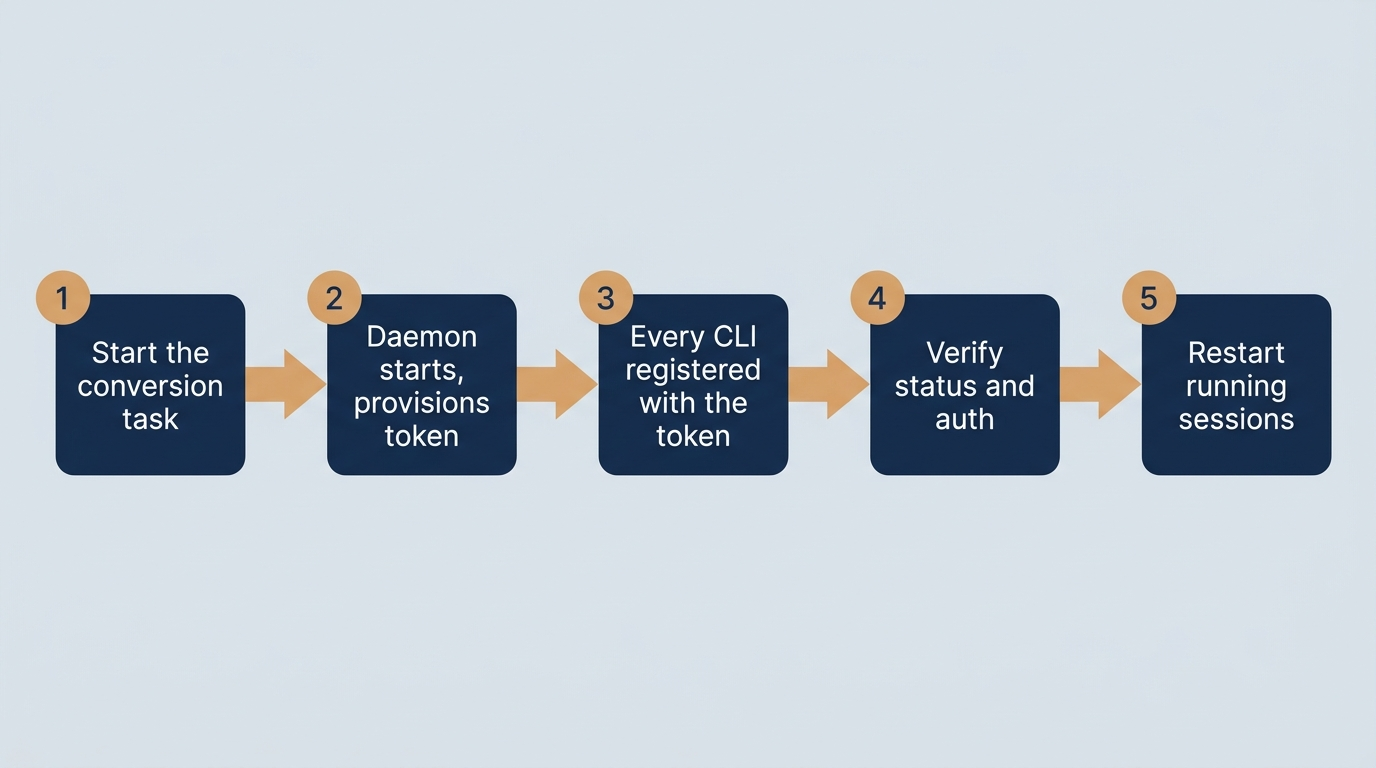
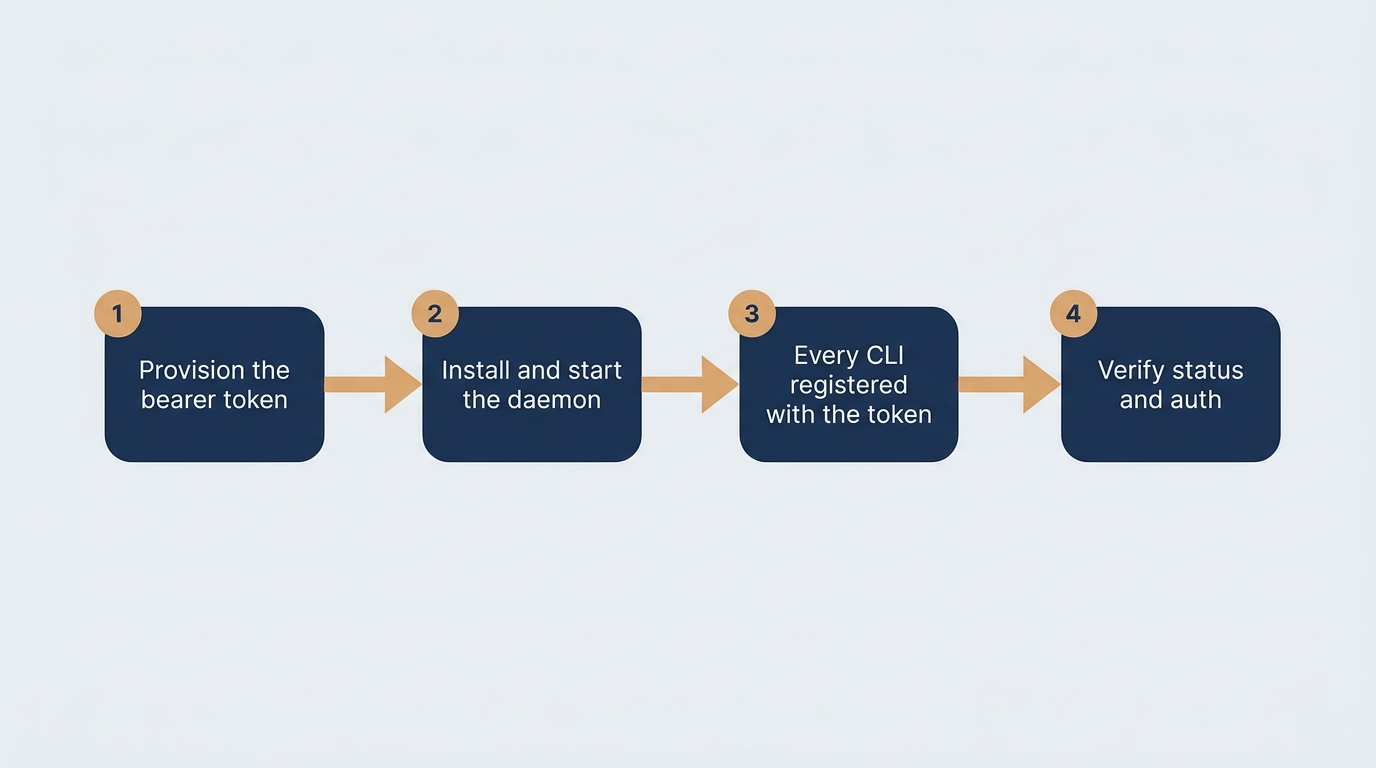
🐛 Fix step order and a false safety claim in the daemon runbook
Cold review of #877 (issuecomment-5268119392) found two blocking issues:

- convert-machine.png and the runbook's numbered list showed the daemon
  starting before its bearer token was provisioned. The code is the
  reverse: install_mcp_daemon (scripts/lib/common.sh:812-830) mints the
  token as its first statement, before the launcher and supervisor start
  the daemon. Regenerated the figure and reworded the list; dropped the
  now-redundant framing step, matching the figure to what the script
  actually does (4 steps, not 5).

- The rotation procedure claimed switch-mempalace-http.sh restarts the
  daemon, closing the exposure window at that step. It does not:
  install_daemon_supervisor skips an already-loaded launchd agent and
  no-ops enable --now on an already-active systemd unit, and the launcher
  exec's the wrapper once, never re-reading the token file. The false
  claim traces to scripts/uninstall-mcp-daemon.sh's own inline comment
  ("restarts, and re-registers") — an upstream defect, filed as #880.
  Added an explicit restart step (task mempalace:stop) between minting the
  new token and cleaning up stale backups; regenerated rotate-token.png
  with the added step (5 steps, original 4-step order unchanged).

Both sidecars now record the correction and cite the source lines the
review traced.

Changed region(s): [[0.0, 0.3438, 0.9688, 0.625]]

diff --git a/docs/runbooks/mempalace-mcp-server.md b/docs/runbooks/mempalace-mcp-server.md
@@ -36,22 +36,26 @@ Converting is all-or-nothing across the four CLIs, run once per machine:
 task mempalace:switch-http
 ```
 
-1. Installs the supervisor unit (launchd on macOS, systemd user unit on
-   Linux) and the daemon launcher.
-2. Provisions a bearer token if one does not already exist for this palace.
-3. Starts the daemon and waits for it to report healthy.
-4. Registers every supported CLI against it, over `--transport http`.
-5. Re-runs the status check so the conversion is verified, not merely
+1. Provisions a bearer token if one does not already exist for this palace
+   — this happens **first**: the daemon launcher refuses to start without
+   one, by design (`install_mcp_daemon`, `scripts/lib/common.sh:812-830`).
+2. Installs the daemon launcher and starts it under the supervisor (launchd
+   on macOS, systemd user unit on Linux), which waits for the daemon to
+   report healthy.
+3. Registers every supported CLI against it, over `--transport http`.
+4. Re-runs the status check so the conversion is verified, not merely
    assumed.
 
 **Already-running sessions keep their previous memory server until they
 restart** — restart every open CLI session to actually pick up the change.
+This is a separate, order-independent follow-up rather than a step in the
+sequence above, so it is not depicted in the diagram below.
 
 A single CLI can be converted on its own by re-running that CLI's own
 `setup-*-interactive.sh`; the machine-wide, all-four-CLIs-or-none obligation
 belongs only to `task mempalace:switch-http`.
 
-![Five ordered steps to convert a machine to the shared MemPalace MCP HTTP daemon: start the conversion task, the daemon starts and provisions a token, every CLI is registered with the token, the result is verified, then running sessions are restarted.](../assets/mempalace-mcp/convert-machine.png)
+![Four ordered steps to convert a machine to the shared MemPalace MCP HTTP daemon: provision the bearer token, install and start the daemon, register every CLI with the token, then verify status and auth.](../assets/mempalace-mcp/convert-machine.png)
 
 ## Daily operations
 
@@ -133,13 +137,20 @@ directly in the log, naming
 
 ## Replacing the bearer token
 
-**No automated path exists yet.** The framework ships no `--rotate` flag or
-script for this daemon; the manual procedure below is the only one that
-exists today, and it is ordered so that the daemon never keeps serving under
-the superseded token for longer than the single command in step 2 takes to
-run.
+**No automated path exists yet, and the existing conversion tooling has a
+gap tracked separately as #880:** `switch-mempalace-http.sh` mints a new
+token and re-registers every CLI with it, but it does **not** restart the
+daemon — `install_daemon_supervisor` explicitly skips loading an
+already-loaded launchd agent and `enable --now` no-ops on an already-active
+systemd unit, and the launcher process, once running, `exec`s the wrapper
+once and never re-reads the token file
+(`scripts/lib/mcp-daemon-launcher.sh:187`). So the running daemon keeps
+serving under the token it started with until something replaces the
+process. The manual procedure below adds the missing restart explicitly, in
+the order that leaves no daemon serving the superseded token for longer
+than necessary.
 
-![Four ordered steps to replace the shared MCP daemon's bearer token: delete the old token file, run switch-mempalace-http.sh to mint a new token and restart the daemon, delete each CLI's stale backup config that still holds the old token, then restart every running session.](../assets/mempalace-mcp/rotate-token.png)
+![Five ordered steps to replace the shared MCP daemon's bearer token: delete the old token file, run switch-mempalace-http.sh to mint a new token and re-register every CLI, restart the daemon so the new token takes effect, delete each CLI's stale backup config that still holds the old token, then restart every running session.](../assets/mempalace-mcp/rotate-token.png)
 
 1. **Delete the current token file.** Its path is derived from the palace
    path the same way the daemon derives it (`scripts/lib/common.sh`,
@@ -155,12 +166,23 @@ run.
    task mempalace:switch-http
    ```
 
-   Finding no token file, this mints a fresh one, restarts the daemon under
-   the new value — **the point at which the superseded token stops being
-   honored** — and re-registers every CLI with the new token, all in the
-   same run.
+   Finding no token file, this mints a fresh one and re-registers every CLI
+   with it — but it does **not** restart the daemon (#880). The running
+   process keeps serving under the *old* token until step 3.
 
-3. **Delete each CLI's stale backup config.** Step 2's re-registration backs
+3. **Restart the daemon so the new token actually takes effect:**
+
+   ```sh
+   task mempalace:stop
+   ```
+
+   Under the supervisor this is a restart request (see *Stopping is not
+   uninstalling* above): the process is replaced, and only the replacement
+   reads the token file — which by now holds the value step 2 minted.
+   **This is the point at which the superseded token stops being
+   honored**, not step 2.
+
+4. **Delete each CLI's stale backup config.** Step 2's re-registration backs
    up each assistant's config file with a timestamp suffix before
    overwriting it, and every backup still contains the *old* token:
 
@@ -172,7 +194,7 @@ run.
 
    Remove whichever of these exist on this machine.
 
-4. **Restart every running CLI session** so it picks up the new token —
+5. **Restart every running CLI session** so it picks up the new token —
    exactly as after a first conversion, a session already running keeps
    using the value it started with.
 

diff --git a/docs/assets/mempalace-mcp/rotate-token.prompt.md b/docs/assets/mempalace-mcp/rotate-token.prompt.md
@@ -5,13 +5,26 @@
 Generated for spec 0136 (issue #751), figure step of PLAN v5 (satisfies R13,
 R14, R15). Depicts the ordered manual procedure for replacing the shared MCP
 daemon's bearer token, in the order that leaves no daemon serving a
-superseded value (R5). Step order verified against the inline procedure
-printed by `scripts/uninstall-mcp-daemon.sh` ("To ROTATE it…"): delete the
-token file first, then run `switch-mempalace-http.sh` (which mints a new
-token, restarts the daemon, and re-registers every CLI in one step, closing
-the window during which the daemon could still be serving the old value),
-then remove the `.bak` config files that still hold the old token, then
-restart every running session.
+superseded value (R5).
+
+**Corrected during REVIEW (cold `architect` pass on #877): the original
+version of this figure and the runbook both repeated a false claim inherited
+from `scripts/uninstall-mcp-daemon.sh`'s own inline comment** ("mints a new
+one, restarts, and re-registers every CLI") — `switch-mempalace-http.sh`
+does **not** restart the daemon: `install_daemon_supervisor` skips loading
+an already-loaded launchd agent and no-ops `enable --now` on an
+already-active systemd unit, and the launcher process `exec`s the wrapper
+once and never re-reads the token file
+(`scripts/lib/mcp-daemon-launcher.sh:187`). The upstream defect (false
+comment, incomplete procedure, no test asserting the old token is refused
+after rotation) is filed as #880. This figure now depicts the corrected,
+five-step procedure with an explicit daemon-restart step added — its
+original four-step order was otherwise right and is unchanged: delete the
+token file, run `switch-mempalace-http.sh` (mints a new token, re-registers
+every CLI, but does not restart), restart the daemon (`task mempalace:stop`
+— the actual point the superseded token stops being honored), remove the
+`.bak` config files that still hold the old token, then restart every
+running session.
 
 - **Model:** `gemini-3-pro-image` (Nano Banana Pro)
 - **Skill:** `nano-banana`, `generate` subcommand
@@ -27,16 +40,17 @@ no drop shadows, no gradients — a plain corporate technical diagram. Use a
 dark navy blue color for every numbered box, white sans-serif text inside the
 boxes, and a muted orange/tan color for every connecting arrow.
 
-Layout: exactly four rounded-rectangle boxes arranged left to right in a
+Layout: exactly five rounded-rectangle boxes arranged left to right in a
 single horizontal row, connected by bold orange arrows pointing rightward
 from each box to the next one, forming a single strict left-to-right
 sequence. Each box has a small circular badge in its top-left corner
 containing a single number in white text. In this exact left-to-right order:
 
 1. Badge "1". Box text: "Delete the old token file"
-2. Badge "2". Box text: "Run switch-mempalace-http.sh: mints new token, restarts daemon"
-3. Badge "3". Box text: "Delete each CLI's .bak config (old token)"
-4. Badge "4". Box text: "Restart every running session"
+2. Badge "2". Box text: "Run switch-mempalace-http.sh: mints new token"
+3. Badge "3". Box text: "Restart the daemon: new token takes effect"
+4. Badge "4". Box text: "Delete each CLI's .bak config (old token)"
+5. Badge "5". Box text: "Restart every running session"
 
 Render every specified word and every number exactly as given, with no
 typos, no missing words, no substituted words, no reordering, and no extra

diff --git a/docs/assets/mempalace-mcp/convert-machine.prompt.md b/docs/assets/mempalace-mcp/convert-machine.prompt.md
@@ -5,10 +5,20 @@
 Generated for spec 0136 (issue #751), figure step of PLAN v5 (satisfies R13,
 R14, R15). Depicts the ordered procedure for converting a machine to the
 shared MemPalace MCP HTTP daemon, run via `task mempalace:switch-http`
-(`scripts/switch-mempalace-http.sh`). Step order verified against that
-script's source: `install_mcp_daemon` → `mcp_token_read_or_create` →
-`switch_assistants_to_http` → `status-mcp-server.sh` verification → the
-script's own printed reminder that already-running sessions must restart.
+(`scripts/switch-mempalace-http.sh`).
+
+**Corrected during REVIEW (cold `architect` pass on #877): the original
+version of this figure showed the daemon starting before the token was
+provisioned — backwards.** Step order re-verified against the actual
+source rather than the outer script's call sequence alone:
+`install_mcp_daemon` (`scripts/lib/common.sh:812-830`) mints the bearer
+token as its **first** statement — the comment above that line states why
+("The token must exist before the launcher runs: it refuses to serve
+without one, by design") — and only then calls `install_mcp_launcher` and
+`install_daemon_supervisor`, which starts the daemon. `switch-mempalace-http.sh`
+re-reads that same token afterward, registers every CLI
+(`switch_assistants_to_http`), and verifies the result
+(`status-mcp-server.sh`).
 
 - **Model:** `gemini-3-pro-image` (Nano Banana Pro)
 - **Skill:** `nano-banana`, `generate` subcommand
@@ -24,17 +34,16 @@ no drop shadows, no gradients — a plain corporate technical diagram. Use a
 dark navy blue color for every numbered box, white sans-serif text inside the
 boxes, and a muted orange/tan color for every connecting arrow.
 
-Layout: exactly five rounded-rectangle boxes arranged left to right in a
+Layout: exactly four rounded-rectangle boxes arranged left to right in a
 single horizontal row, connected by bold orange arrows pointing rightward
 from each box to the next one, forming a single strict left-to-right
 sequence. Each box has a small circular badge in its top-left corner
 containing a single number in white text. In this exact left-to-right order:
 
-1. Badge "1". Box text: "Start the conversion task"
-2. Badge "2". Box text: "Daemon starts, provisions token"
+1. Badge "1". Box text: "Provision the bearer token"
+2. Badge "2". Box text: "Install and start the daemon"
 3. Badge "3". Box text: "Every CLI registered with the token"
 4. Badge "4". Box text: "Verify status and auth"
-5. Badge "5". Box text: "Restart running sessions"
 
 Render every specified word and every number exactly as given, with no
 typos, no missing words, no substituted words, no reordering, and no extra
